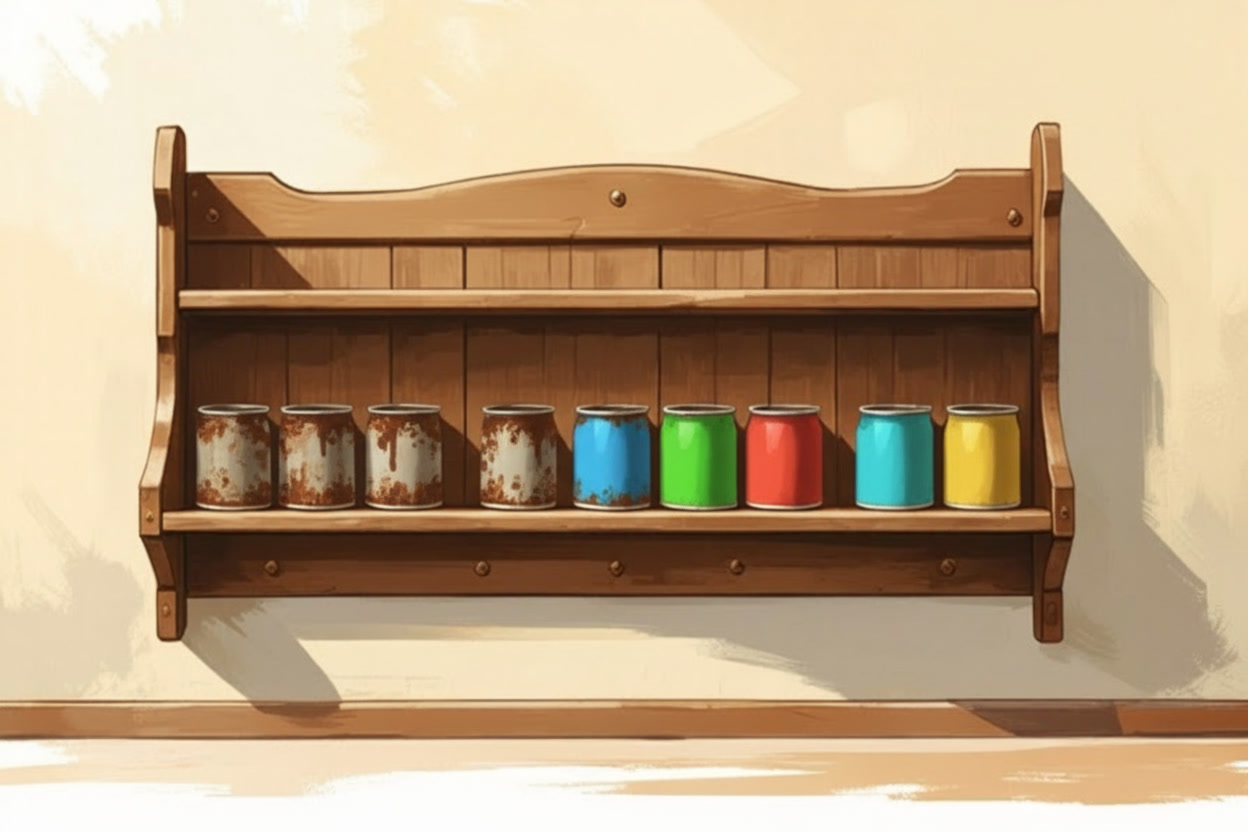
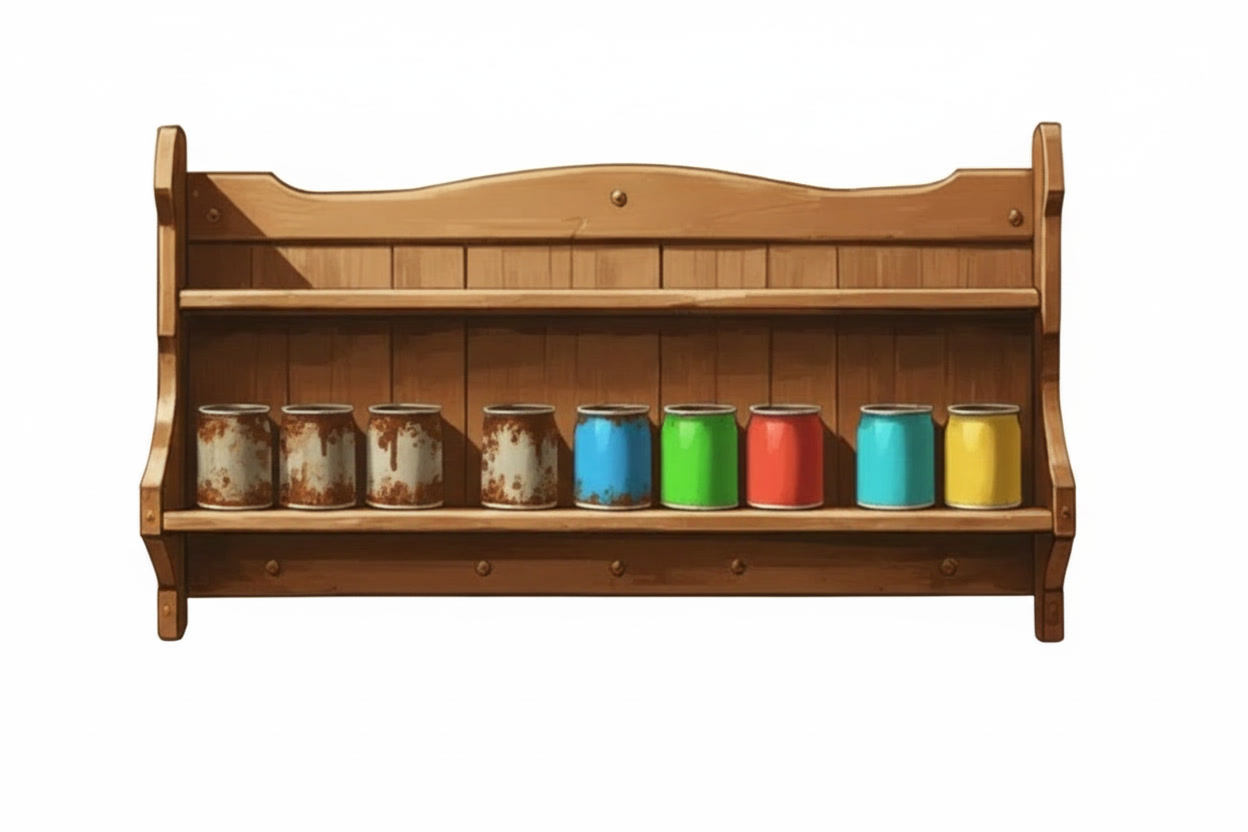
Paint rack art on white background; all 90 images wired

diff --git a/assets/ART_TODO.md b/assets/ART_TODO.md
@@ -1,6 +1,6 @@
 # Графика: что переделать и что осталось
 
-Состояние на 13.10.2026: подключено 86 из 90 нужных картинок. Ниже два блока: **что переделать** (уже подключено, но с недостатками) и **что ещё не сгенерировано**. У каждой картинки — размер, промпт и отрицательный промпт; наборы N-… расписаны в конце файла, к каждому добавляйте N-COMMON.
+Состояние на 13.10.2026: подключено 90 из 90 нужных картинок. Ниже два блока: **что переделать** (уже подключено, но с недостатками) и **что ещё не сгенерировано**. У каждой картинки — размер, промпт и отрицательный промпт; наборы N-… расписаны в конце файла, к каждому добавляйте N-COMMON.
 
 Общие правила те же, что в `PROMPTS.md`:
 - генерируйте приватно (тариф Essential), на ровном белом фоне для спрайтов — фон я уберу сам при подключении;
@@ -241,46 +241,9 @@ Clearly abandoned for many years: the tabletop boards are cracked, warped and st
 Same cozy hand-painted 2D style, original design, lighting, white background and framing. No redesign, no new or missing parts, no text or numbers.
 ```
 
-## 1.7. Стеллаж с красками: убрать стену
+## 1.7. Стеллаж с красками: убрать стену — ✅ готово 13.10.2026
 
-**Что не так:**
-- **Стеллаж с красками** (`obj_paint_rack_0…3`) нарисован на стене с плинтусом и полом, а не на белом фоне — вырезать его автоматически чисто нельзя, поэтому в игре пока заглушка. Нужно убрать фон правкой каждой из четырёх картинок (текст один и тот же).
-
-### `obj_paint_rack_0` — Стеллаж с красками, шаг 0 из 3 — убрать стену
-
-- **Как делать:** правка уже готовой картинки `obj_paint_rack_0` (откройте её карточку в Leonardo).
-- **Отрицательный промпт:** не нужен — это правка готовой картинки
-
-```
-Edit this exact image: keep the paint rack with its cans exactly as it is — same shape, colors, details and camera angle. Remove the wall, the baseboard and the floor around and under it, and the shadow on the wall: replace everything around the paint rack with its cans with a plain flat pure white background. No redesign, no new or missing parts, no text or numbers.
-```
-
-### `obj_paint_rack_1` — Стеллаж с красками, шаг 1 из 3 — убрать стену
-
-- **Как делать:** правка уже готовой картинки `obj_paint_rack_1` (откройте её карточку в Leonardo).
-- **Отрицательный промпт:** не нужен — это правка готовой картинки
-
-```
-Edit this exact image: keep the paint rack with its cans exactly as it is — same shape, colors, details and camera angle. Remove the wall, the baseboard and the floor around and under it, and the shadow on the wall: replace everything around the paint rack with its cans with a plain flat pure white background. No redesign, no new or missing parts, no text or numbers.
-```
-
-### `obj_paint_rack_2` — Стеллаж с красками, шаг 2 из 3 — убрать стену
-
-- **Как делать:** правка уже готовой картинки `obj_paint_rack_2` (откройте её карточку в Leonardo).
-- **Отрицательный промпт:** не нужен — это правка готовой картинки
-
-```
-Edit this exact image: keep the paint rack with its cans exactly as it is — same shape, colors, details and camera angle. Remove the wall, the baseboard and the floor around and under it, and the shadow on the wall: replace everything around the paint rack with its cans with a plain flat pure white background. No redesign, no new or missing parts, no text or numbers.
-```
-
-### `obj_paint_rack_3` — Стеллаж с красками, шаг 3 из 3 — убрать стену
-
-- **Как делать:** правка уже готовой картинки `obj_paint_rack_3` (откройте её карточку в Leonardo).
-- **Отрицательный промпт:** не нужен — это правка готовой картинки
-
-```
-Edit this exact image: keep the paint rack with its cans exactly as it is — same shape, colors, details and camera angle. Remove the wall, the baseboard and the floor around and under it, and the shadow on the wall: replace everything around the paint rack with its cans with a plain flat pure white background. No redesign, no new or missing parts, no text or numbers.
-```
+Стеллаж (`obj_paint_rack_0…3`) перерисован на белом фоне и подключён. Прежние версии на стене лежат в `assets/source/raw/paint_rack_wall/`, в игре они не используются.
 
 ---
 
@@ -288,7 +251,7 @@ Edit this exact image: keep the paint rack with its cans exactly as it is — sa
 
 Кучи завала (`zone_*`) и фоны сцен разбора (`scene_*`) рисовать **не нужно**: игра собирает кучу из спрайтов завала, а фон сцены — из увеличенного фона комнаты (минус 26 картинок). Если когда-нибудь захочется отдельный рисунок для зоны, его промпт остался в `PROMPTS.md`, и он сам заменит собранный вариант.
 
-✅ **Всё нужное сгенерировано** (13.10.2026). Осталось поправить только то, что перечислено в разделе 1.7.
+✅ **Всё нужное сгенерировано** (13.10.2026). Все 90 картинок подключены в игру.
 
 ---
 

diff --git a/NEXT_STEPS.md b/NEXT_STEPS.md
@@ -17,26 +17,12 @@
 
 ---
 
-## 2. Графика — почти всё готово
+## 2. Графика — готово
 
-13.10.2026 подключено **86 из 90** нужных картинок. Осталось поправить только стеллаж с красками (текст правки — в `assets/ART_TODO.md`, раздел 1.7). Шкафчик для растворителей и шлифовальный верстак оставлены как есть (13.10.2026). Плинтус на фонах теперь на 65% высоты: мебель стоит у стены задними ножками на плинтусе.
+13.10.2026 подключены **все 90 из 90** нужных картинок, включая стеллаж с красками. Плинтус на фонах — на 65% высоты: мебель стоит у стены задними ножками на плинтусе.
 
-| Что | Сколько | Как |
-| --- | --- | --- |
-| Стеллаж с красками `obj_paint_rack_0…3` | 4 | Нарисован на стене с плинтусом — правкой каждой картинки убрать стену и пол, оставить белый фон. Пока в игре заглушка |
+Если захотите что-то перерисовать:
 
-Присылайте, как раньше: файлы по ключам, архивом.
-
---- | --- | --- | --- | --- |
-| 1 | ✅ ~~Фоны комнат~~ — готово | 2 | 1.4 | Без них расстановка не сходится: напольные вещи «лезут» на стены. Загрузите в Leonardo картинку-подсказку из `assets/source/guides/` как Image to Image |
-| 2 | **Верстак целиком** `_0`…`_3` (новый дизайн) и лампа `_0`, `_1` | 6 | 1.6, 2.1 | Нынешний верстак не подходит под лампу и ящик; это первое, что видит игрок |
-| 3 | ✅ ~~Часы без цифр~~ — готово | 3 | 1.2 | Цифры на картинках нарушают правило «без текста»; сейчас часы разной формы |
-| 4 | ✅ ~~Вывеска без надписи~~ — готово | 1 | 1.1 | Сейчас вместо неё заглушка |
-| 5 | Вступление `story_*` | 4 | 2.0 | Первое, что видит новый игрок |
-| 6 | Объекты малярной | 28 | 2.2 | Вторая комната; можно на токенах следующего месяца |
-| 7 | По желанию: окна без мазков, финальная карточка без цифр на часах | 4 | 1.5, 1.3 | Мелкие улучшения |
-
-**Как делать и присылать:**
 - генерируйте **приватно** (Essential), спрайты — на ровном белом фоне, фон я уберу сам;
 - состояния объекта — **правками восстановленной картинки в Leonardo**, как вы сделали с часами; тексты правок для каждого состояния готовы в `ART_TODO.md`;
 - без букв, цифр и подписей, в том числе подписи художника в углу;

diff --git a/RELEASE_CHECKLIST.md b/RELEASE_CHECKLIST.md
@@ -14,7 +14,7 @@
 | 6 | Сохранения работают после обновления страницы и повторного открытия браузера | Проверено в браузере на ПК. **Проверить на телефонах и в черновике** (облако) |
 | 7 | Реклама только через SDK; задержка ≤ 2 с; подписи наград понятны | Код готов: показ вызывается сразу после действия, без промежуточных экранов. **Проверить в черновике** |
 | 8 | Язык определяется через SDK; тексты на русском без ошибок | Код готов. **Вычитать русские тексты**, английский вычитан, проверить в черновике с `&lang=en` |
-| 9 | Игра выглядит законченной; финальные графика и звук подключены | **Не выполнено:** подключено 86 из 90 нужных картинок (не хватает стеллажа с красками — переделка, `ART_TODO.md` 1.7); звуки интерфейса синтезированы, звуков завала и мелодии радио нет. Список — `assets/ART_TODO.md`, `assets/SOUND_PROMPTS.md` |
+| 9 | Игра выглядит законченной; финальные графика и звук подключены | **Частично:** графика подключена полностью (90 из 90); звуки интерфейса синтезированы, звуков завала и мелодии радио нет. Список — `assets/ART_TODO.md`, `assets/SOUND_PROMPTS.md` |
 | 10 | В контенте нет политики, войн, религии и мата; права на материалы подтверждены | Тексты проверены при написании. Графика — Leonardo.ai, тариф Essential, приватная генерация; звуки интерфейса синтезированы кодом (`assets/LICENSES.md`). Перед релизом сверить действующие условия Leonardo |
 | 11 | Игра не копирует другую из каталога (3.6) | **Владелец:** проверить каталог на похожие игры и название |
 | 12 | Поля черновика заполнены; иконка и обложка не скриншоты; на скриншотах ≥ 70% геймплея; нет рамок и элементов интерфейса Яндекс Игр; тексты в полях не дублируются | **Владелец** |

diff --git a/assets/LICENSES.md b/assets/LICENSES.md
@@ -36,7 +36,8 @@
 - [x] `room_bg` (13.10.2026; нижняя полоса с подписью-водяным знаком обрезана)
 - [x] `obj_workbench_3`
 - [x] 13.10.2026 (вторая партия, Essential, приватно): новые `room_bg`, `room_paint_bg` (обрезаны сверху и с боков, чтобы плинтус встал посередине), `obj_wall_clock_0..2`, `find_f_sign`
-- [x] 13.10.2026 (третья партия, Essential, приватно): верстак `_0..3` (новый), лампа `_0..2`, окно `_0..2`, все объекты малярной кроме стеллажа с красками, вступление `story_*`, новая `final_card`. Стеллаж с красками `obj_paint_rack_0..3` пока не подключён (нарисован на стене, нужен белый фон)
+- [x] 13.10.2026 (третья партия, Essential, приватно): верстак `_0..3` (новый), лампа `_0..2`, окно `_0..2`, все объекты малярной кроме стеллажа с красками, вступление `story_*`, новая `final_card`
+- [x] 13.10.2026 (Essential, приватно): стеллаж с красками `obj_paint_rack_0..3` на белом фоне (версии на стене — в `assets/source/raw/paint_rack_wall/`, в игре не используются)
 - [x] `find_f_photo`, `find_f_screws`, `find_f_note`, `find_f_radio`, `find_f_clock`
 - [x] `final_card`
 - [x] `logo`
